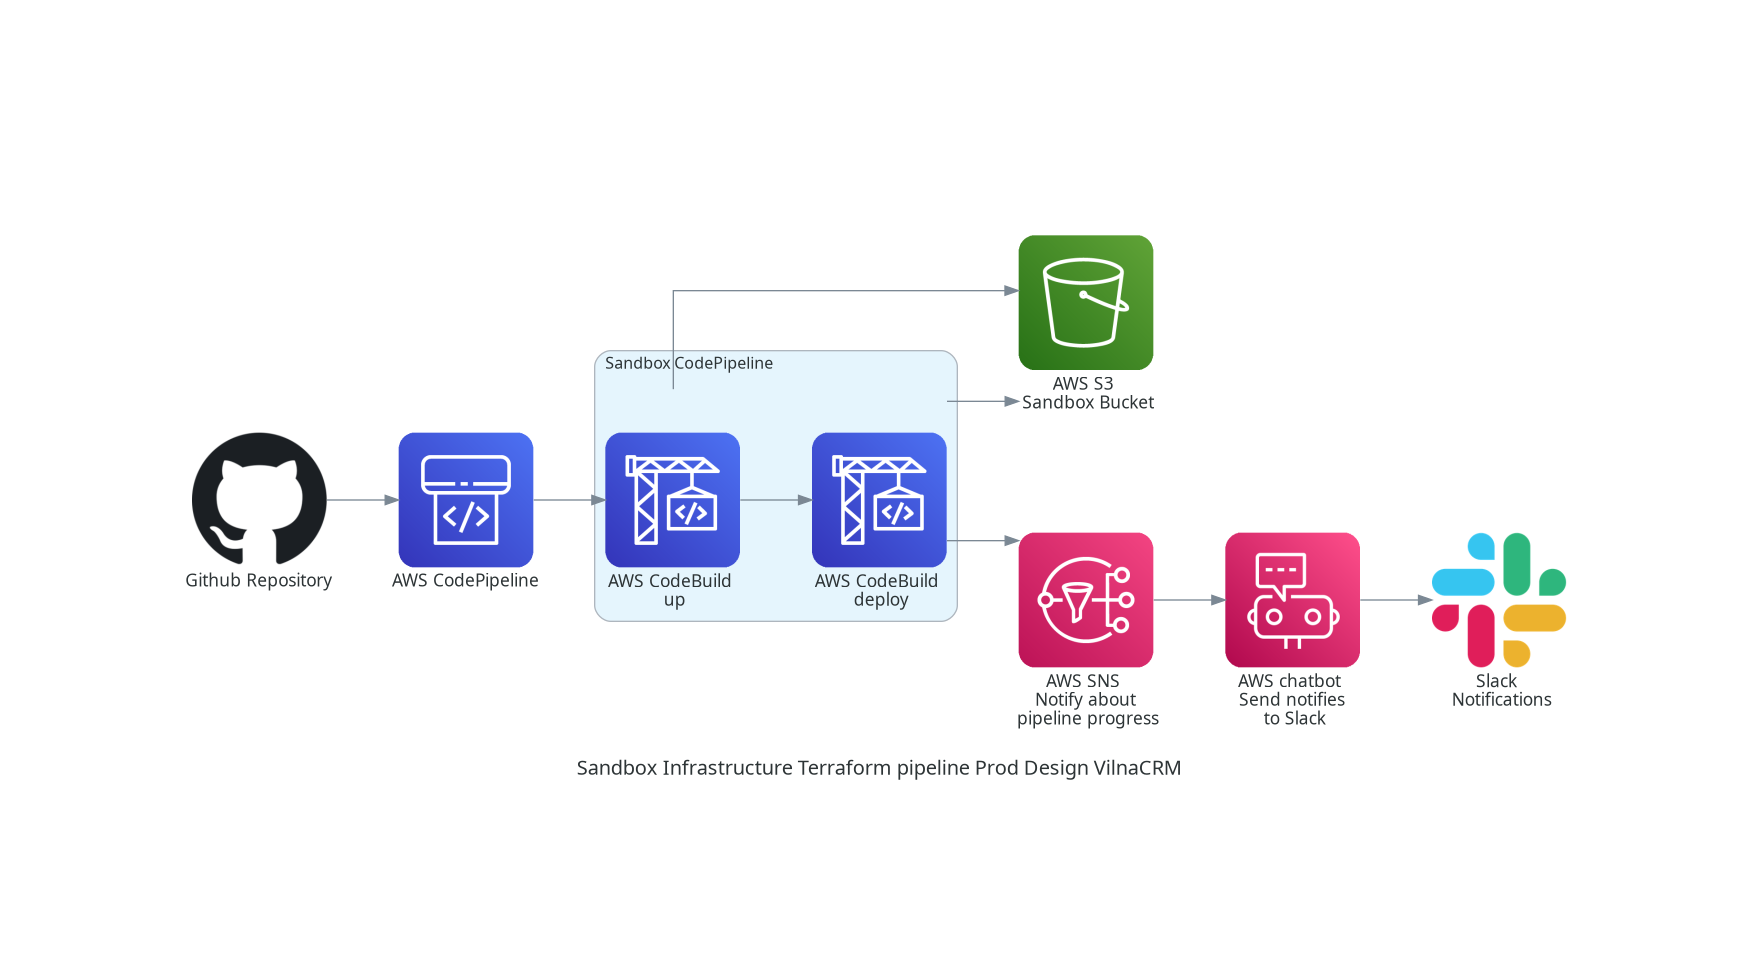
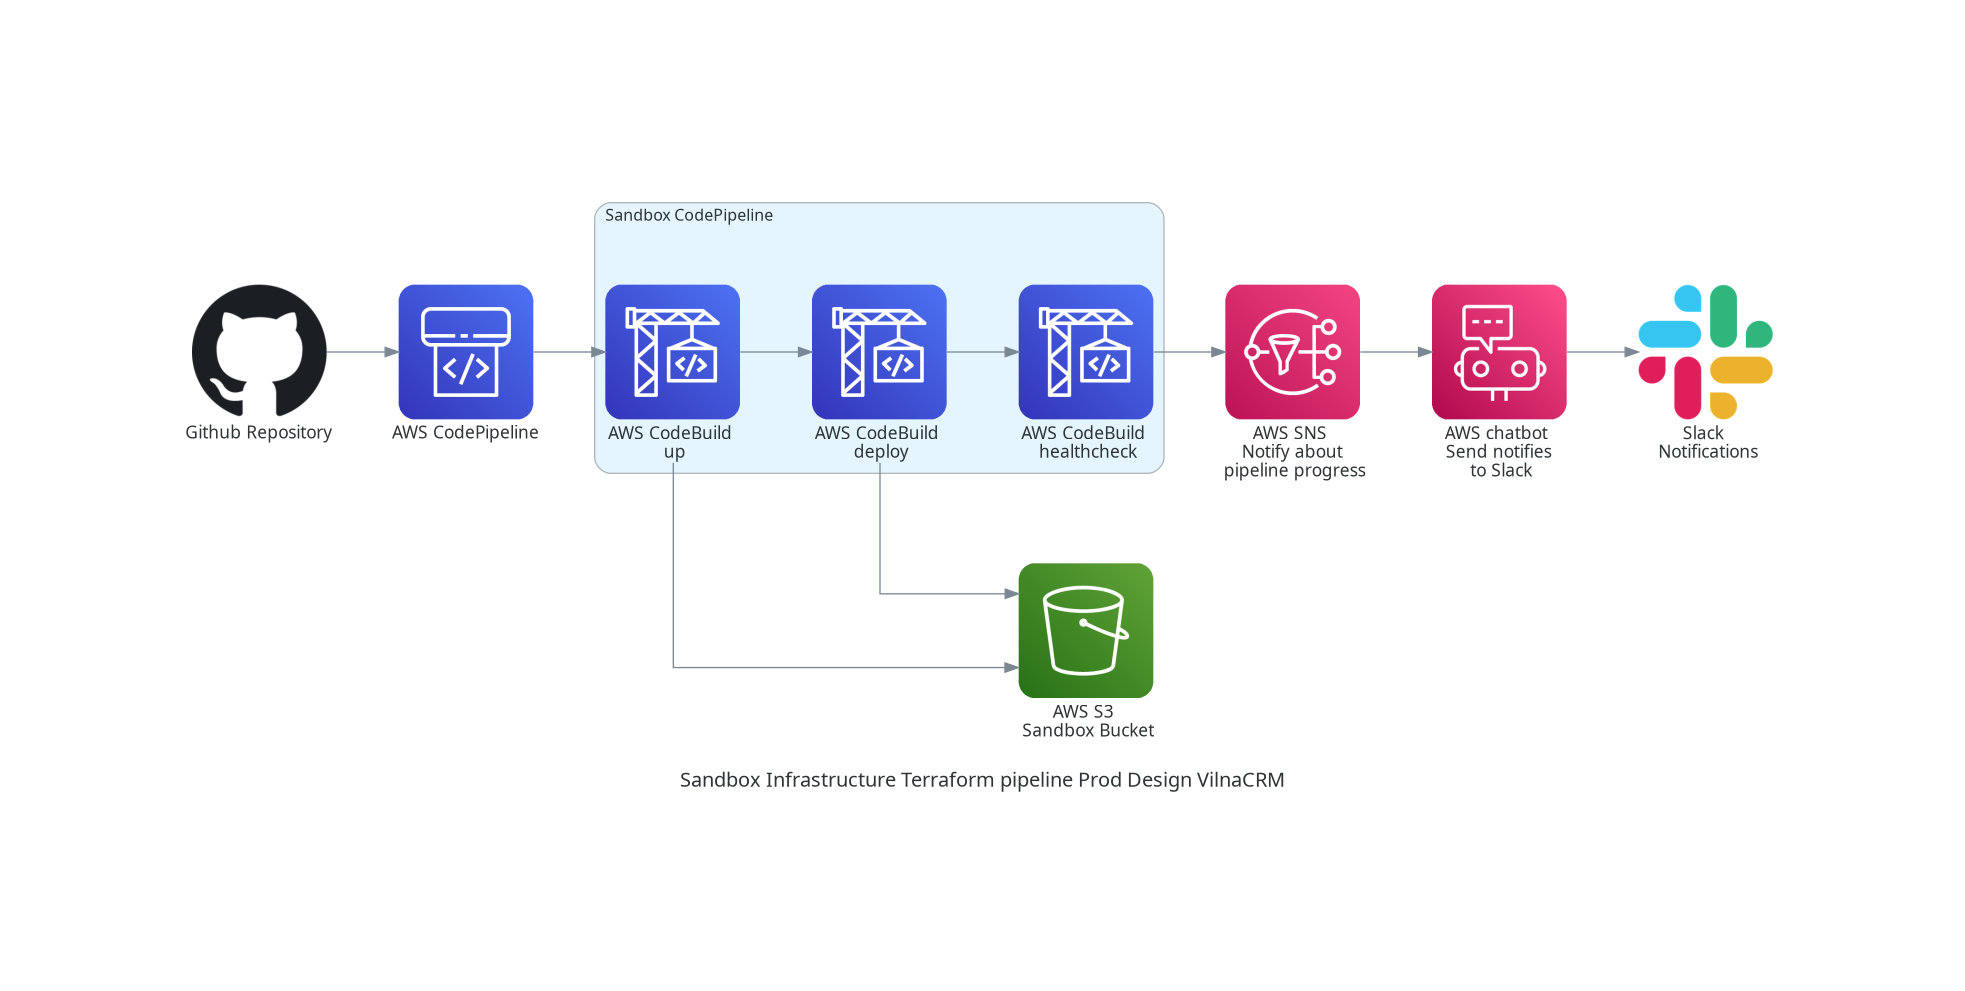
refactor(#139): remove branch from sns and edit diagrams

Changed region(s): [[0.0921, 0.1839, 0.8903, 0.7967], [0.8289, 0.2758, 0.921, 0.4597]]

diff --git a/aws/lambda/python/sns_converter.py b/aws/lambda/python/sns_converter.py
@@ -14,13 +14,11 @@ def lambda_handler(event, context):
     user_identity_id = records["userIdentity"]["principalId"]
     bucket_name = records["s3"]["bucket"]["name"]
     file_name = records["s3"]["object"]["key"]
-    branch_name = records.get("branchName", "Unknown Branch")
 
     event_source_string = f"*EventSource:* {event_source} \n"
     bucket_name_string = f"*Bucket Name:* {bucket_name} \n"
     file_name_string = f"*File Name:* {file_name} \n"
     user_identity_id_string = f"*User Identity ID:* {user_identity_id}! \n"
-    branch_name_string = f"*Branch Name:* {branch_name} \n"
     event_name_string = f"*EventName:* {event_name} \n\n"
     buckets_link = (
         "<https://s3.console.aws.amazon.com/s3/buckets?region=eu-central-1&bucketType=general&region=eu-central-1|"
@@ -45,7 +43,7 @@ def lambda_handler(event, context):
             "content": {
                 "description": (
                     f"{warning_string} {event_source_string} {bucket_name_string} {file_name_string} "
-                    f"{user_identity_id_string} {branch_name_string} {event_name_string} {buckets_link}"
+                    f"{user_identity_id_string} {event_name_string} {buckets_link}"
                 ),
             },
         }

diff --git a/diagrams/py/prod/sandbox_pipeline_design.py b/diagrams/py/prod/sandbox_pipeline_design.py
@@ -22,18 +22,19 @@ with Diagram(
         builders = [
             Codebuild("AWS CodeBuild \n up"),
             Codebuild("AWS CodeBuild \n deploy"),
+            Codebuild("AWS CodeBuild \n healthcheck"),
         ]
 
     gh >> codepipe
 
-    builders[0] >> builders[1]
+    builders[0] >> builders[1] >> builders[2]
 
     codepipe >> builders[0]
 
-    for builder in builders:
-        builder >> s3
+    builders[0] >> s3
+    builders[1] >> s3
 
-    builders[1] >> sns
+    builders[2] >> sns
 
     sns >> chatbot
 

diff --git a/diagrams/py/test/sandbox_pipeline_design.py b/diagrams/py/test/sandbox_pipeline_design.py
@@ -22,18 +22,19 @@ with Diagram(
         builders = [
             Codebuild("AWS CodeBuild \n up"),
             Codebuild("AWS CodeBuild \n deploy"),
+            Codebuild("AWS CodeBuild \n healthcheck"),
         ]
 
     gh >> codepipe
 
-    builders[0] >> builders[1]
+    builders[0] >> builders[1] >> builders[2]
 
     codepipe >> builders[0]
 
-    for builder in builders:
-        builder >> s3
+    builders[0] >> s3
+    builders[1] >> s3
 
-    builders[1] >> sns
+    builders[2] >> sns
 
     sns >> chatbot
 
